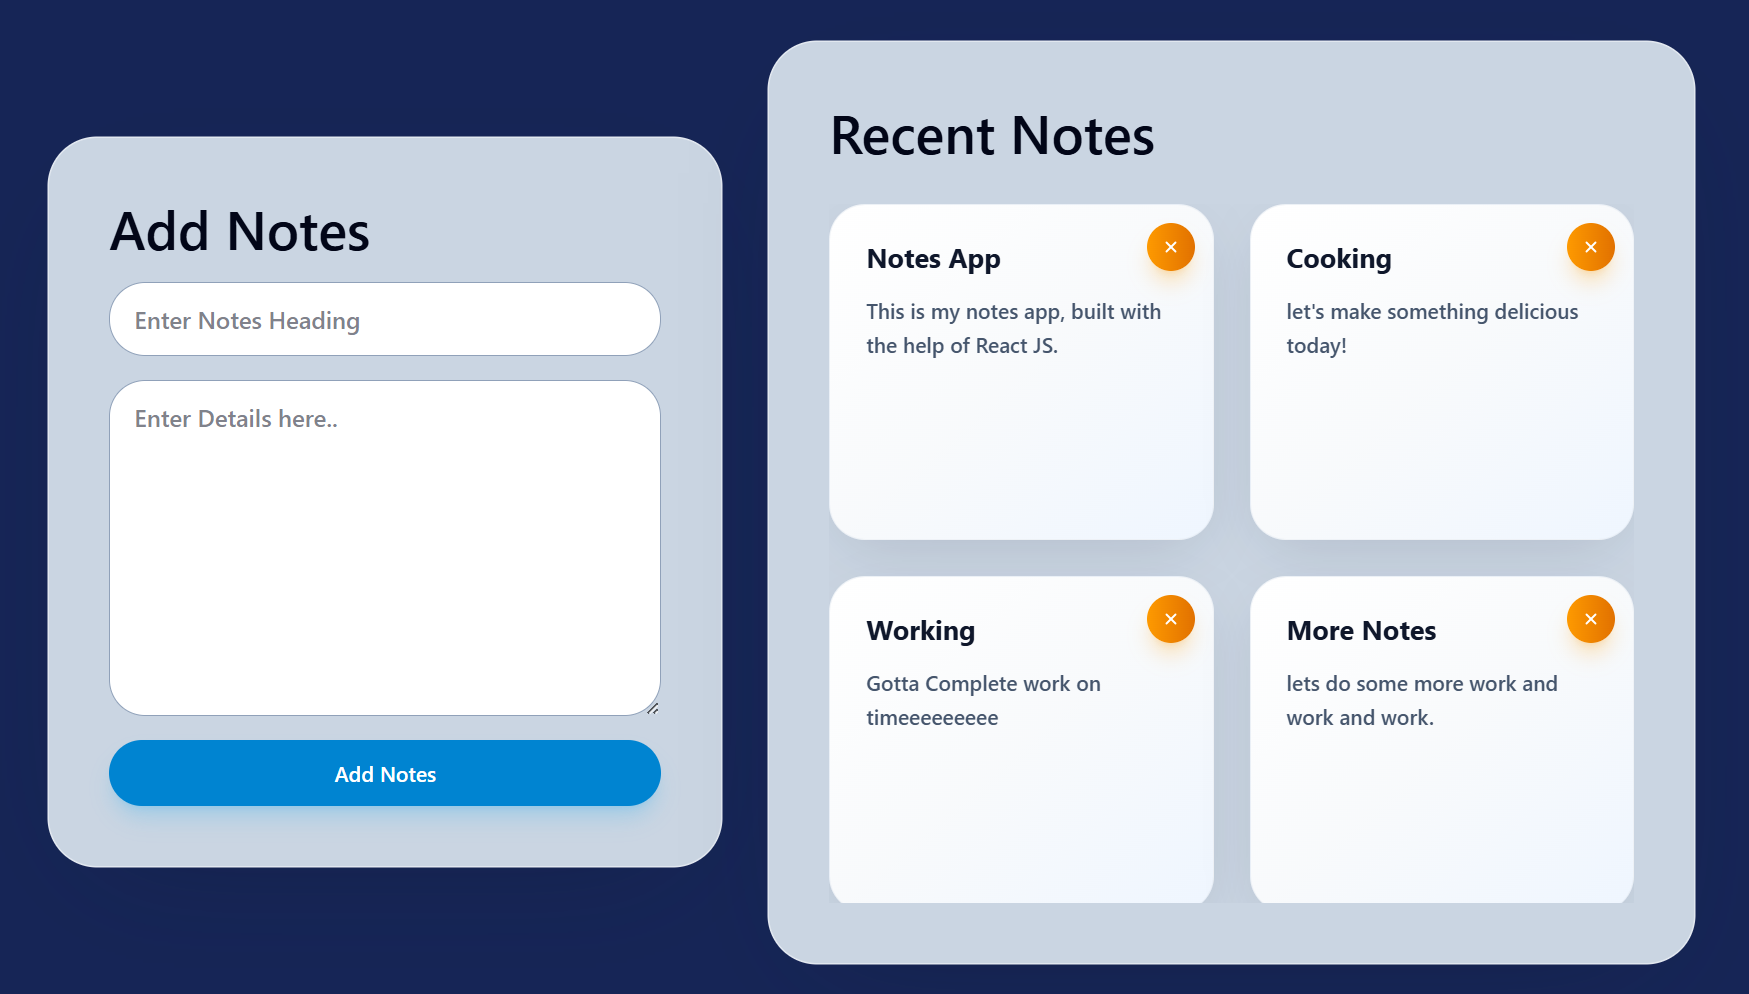
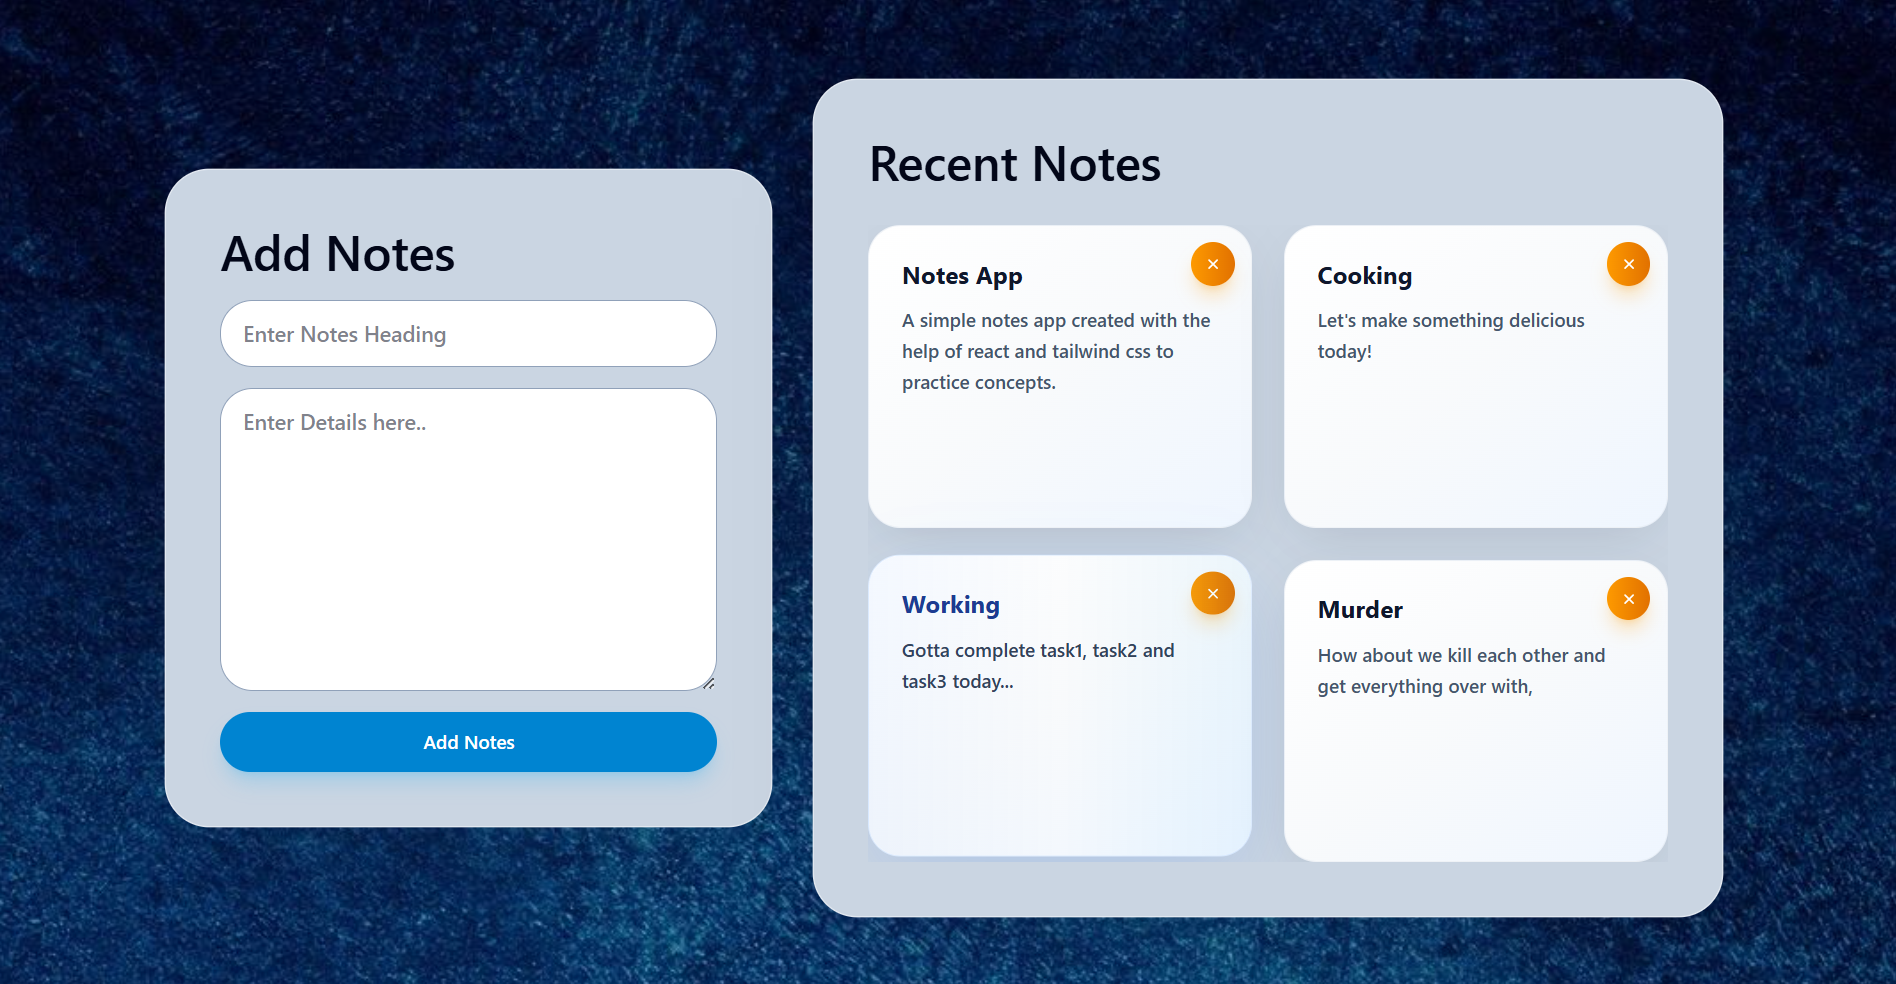
added background image + minor css fixes

diff --git a/src/App.jsx b/src/App.jsx
@@ -24,7 +24,7 @@ const App = () => {
   };
 
   return (
-    <div className="min-h-screen bg-blue-950 text-slate-100 lg:flex lg:items-center lg:justify-center px-4 sm:px-4 lg:px-4 py-4 lg:py-12 gap-8">
+    <div className="min-h-screen bg-[url(https://i.pinimg.com/1200x/af/a3/fb/afa3fb73e331422875e097ab2509a7c5.jpg)] bg-cover text-slate-100 lg:flex lg:items-center lg:justify-center px-4 sm:px-4 lg:px-4 py-4 lg:py-12 gap-18">
       <NotesForm
         header={header}
         setHeader={setHeader}

diff --git a/src/components/NoteCard.jsx b/src/components/NoteCard.jsx
@@ -3,7 +3,7 @@ import { X } from "lucide-react";
 
 const NoteCard = ({ header, notes, onDelete }) => {
   return (
-    <div className="group relative min-h-56 rounded-3xl border border-slate-200/50 bg-linear-to-br from-white via-slate-50 to-blue-50 p-6 shadow-[0_12px_40px_-12px_rgba(15,23,42,0.15)] hover:shadow-[0_20px_60px_-10px_rgba(59,130,246,0.2)] transition-all duration-300 hover:border-blue-200/50 hover:-translate-y-1 overflow-hidden">
+    <div className="group relative min-h-56 rounded-3xl border border-slate-200/50 bg-linear-to-br from-white via-slate-50 to-blue-50 p-6 shadow-[0_12px_40px_-12px_rgba(15,23,42,0.15)] hover:shadow-[0_20px_60px_-10px_rgba(59,130,246,0.2)] transition-all duration-300 hover:border-blue-200/50 hover:-translate-y-1 overflow-hidden ">
       <button
         className="absolute right-3 top-3 inline-flex h-8 w-8 items-center justify-center rounded-full bg-linear-to-r from-amber-500 to-amber-600 text-white shadow-lg shadow-amber-500/30 transition-all duration-200 hover:bg-linear-to-r hover:from-amber-600 hover:to-amber-700 hover:scale-125 hover:shadow-xl"
         onClick={onDelete}